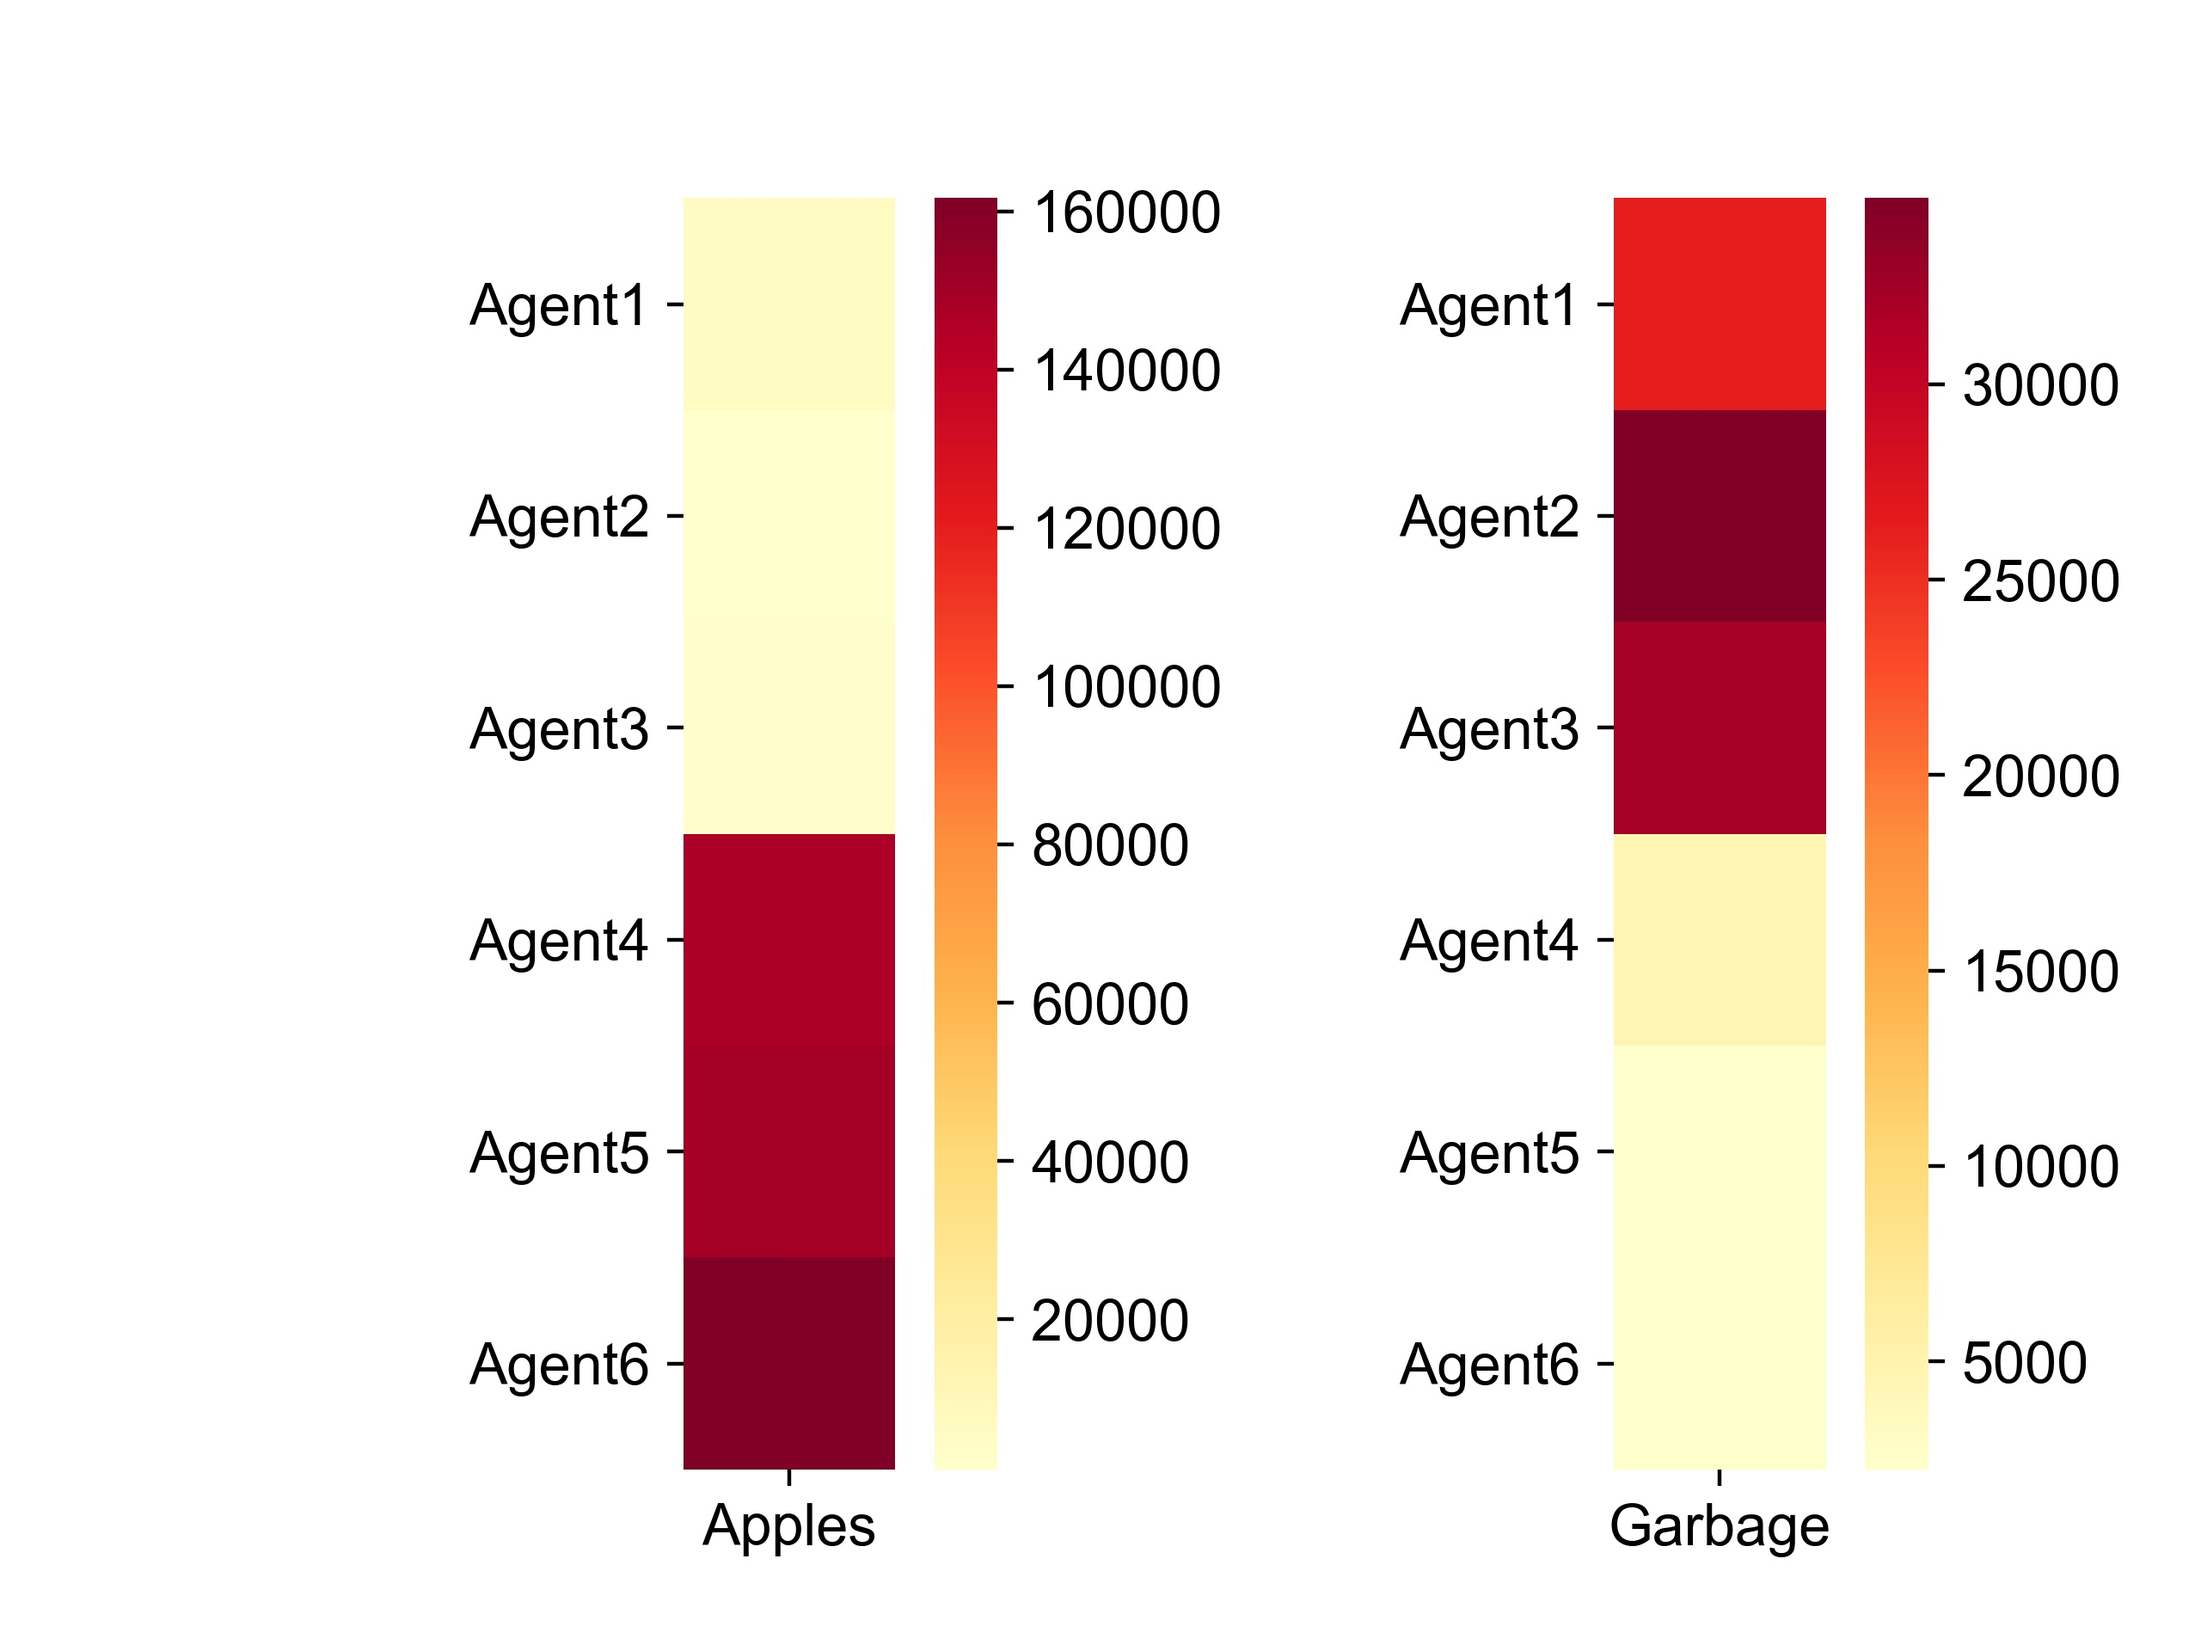
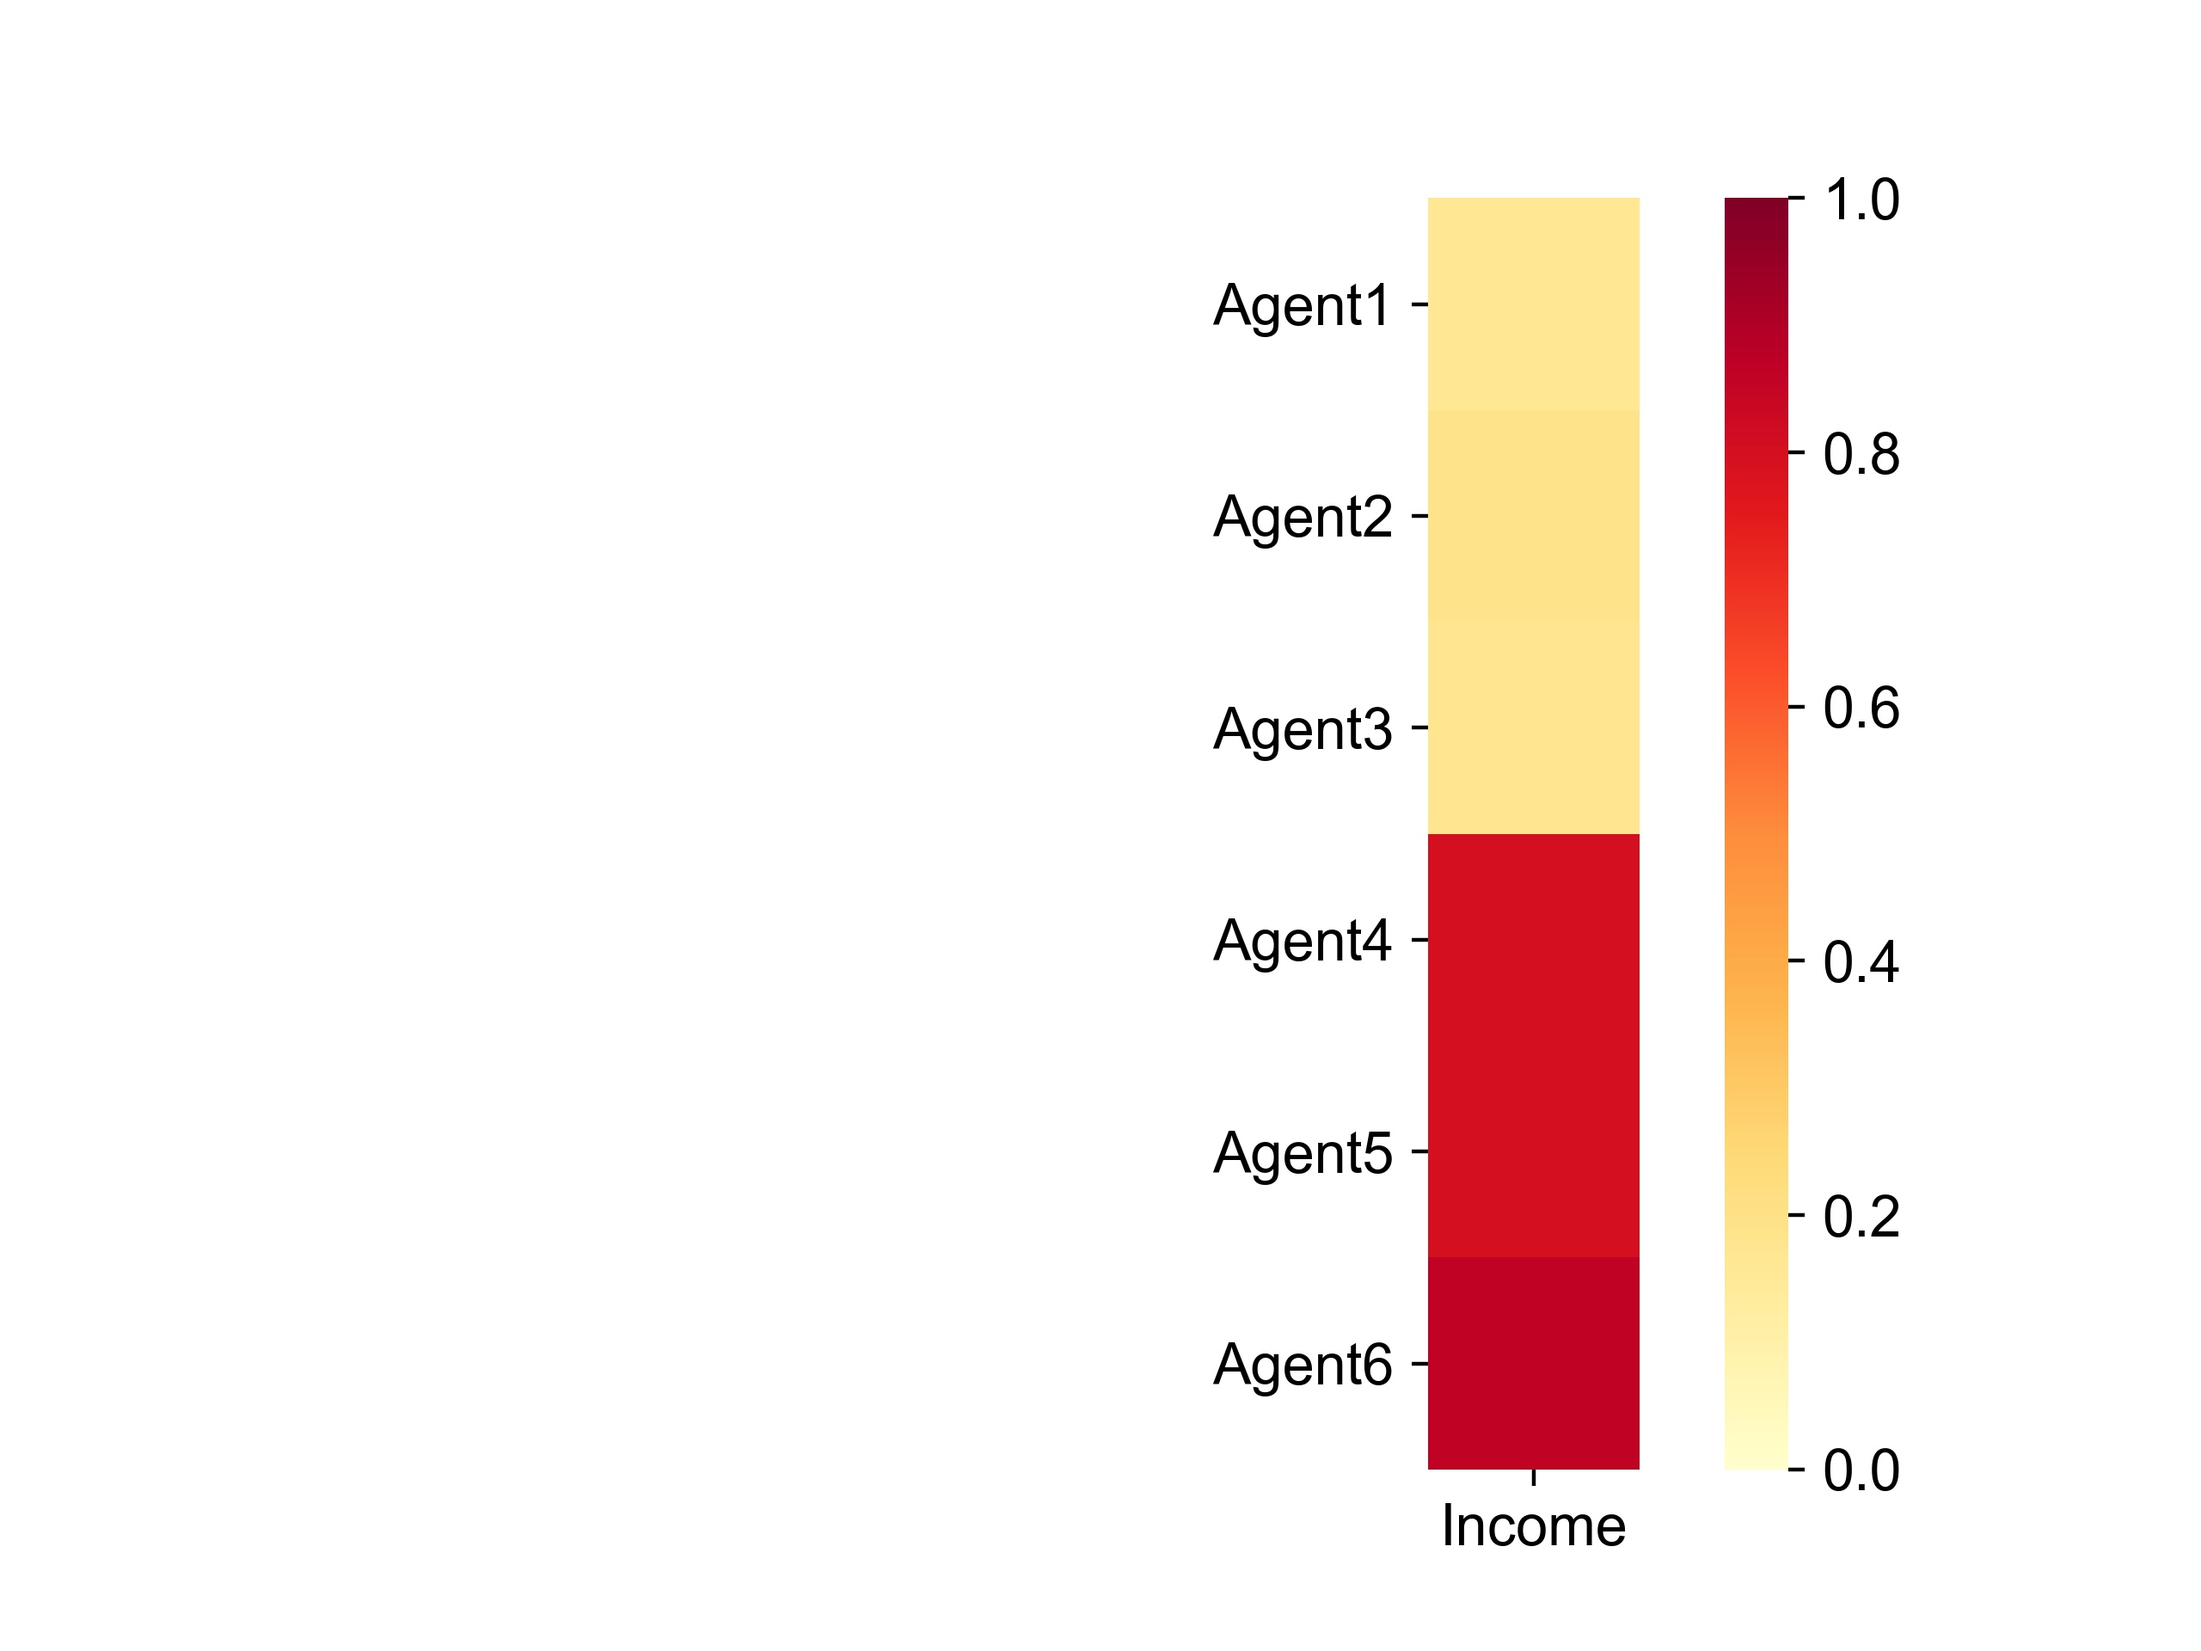
upData

Changed region(s): [[0.2188, 0.0938, 0.9688, 0.9375]]

diff --git a/Draw.py b/Draw.py
@@ -77,20 +77,10 @@ def draw_heatmap(data_list, figpath):
     plt.rc('ytick', labelsize=LABELSIZE)  # y轴刻度大小
     plt.rc('axes', labelsize=LABELSIZE)  # 坐标轴字体大小
 
-    plt.subplot(1, 2, 1)
-    apple_data = list(data_list['Apples'])
+    apple_data = list(data_list['data'])
     apple_data = pd.DataFrame(apple_data, index=['Agent1', 'Agent2', 'Agent3', 'Agent4', 'Agent5', 'Agent6'],
-                              columns=['Apples'])
-    sns.heatmap(apple_data, cmap='YlOrRd', square=True)
-    plt.xticks(fontproperties='Arial', size=LABELSIZE)
-    plt.yticks(rotation=0, fontproperties='Arial', size=LABELSIZE)
-    plt.savefig(figpath, dpi=DPI)
-
-    plt.subplot(1, 2, 2)
-    garbage_data = list(data_list['Garbage'])
-    garbage_data = pd.DataFrame(garbage_data, index=['Agent1', 'Agent2', 'Agent3', 'Agent4', 'Agent5', 'Agent6'],
-                                columns=['Garbage'])
-    sns.heatmap(garbage_data, cmap='YlOrRd', square=True)
+                              columns=['Income'])
+    sns.heatmap(apple_data, cmap='YlOrRd', square=True, vmin=0, vmax=1)
     plt.xticks(fontproperties='Arial', size=LABELSIZE)
     plt.yticks(rotation=0, fontproperties='Arial', size=LABELSIZE)
     plt.savefig(figpath, dpi=DPI)

diff --git a/Draw_heatMap.py b/Draw_heatMap.py
@@ -7,7 +7,7 @@
 =================================================="""
 from Draw import draw_heatmap
 import pandas as pd
-
+import numpy as np
 import os
 
 
@@ -31,7 +31,13 @@ def draw_heatMap():
         data_path = os.path.join(each_file, 'endReward.csv')
 
         data = pd.read_csv(data_path)
-        draw_heatmap(data, os.path.join(each_file, 'heatMap.jpg'))
+        newData = np.array(data['Apples'] + data['Garbage'])
+
+        newData = newData / np.average(newData) / 2
+        newData = pd.DataFrame(newData, columns=['data'])
+
+
+        draw_heatmap(newData, os.path.join(each_file, 'heatMap.jpg'))
         # apple_data = list(pd.read_csv(data_path)['Apples'])
         # apple_data = pd.DataFrame(apple_data, index=['Agent1', 'Agent2', 'Agent3', 'Agent4', 'Agent5', 'Agent6'],
         #                           columns=['Apples'])
